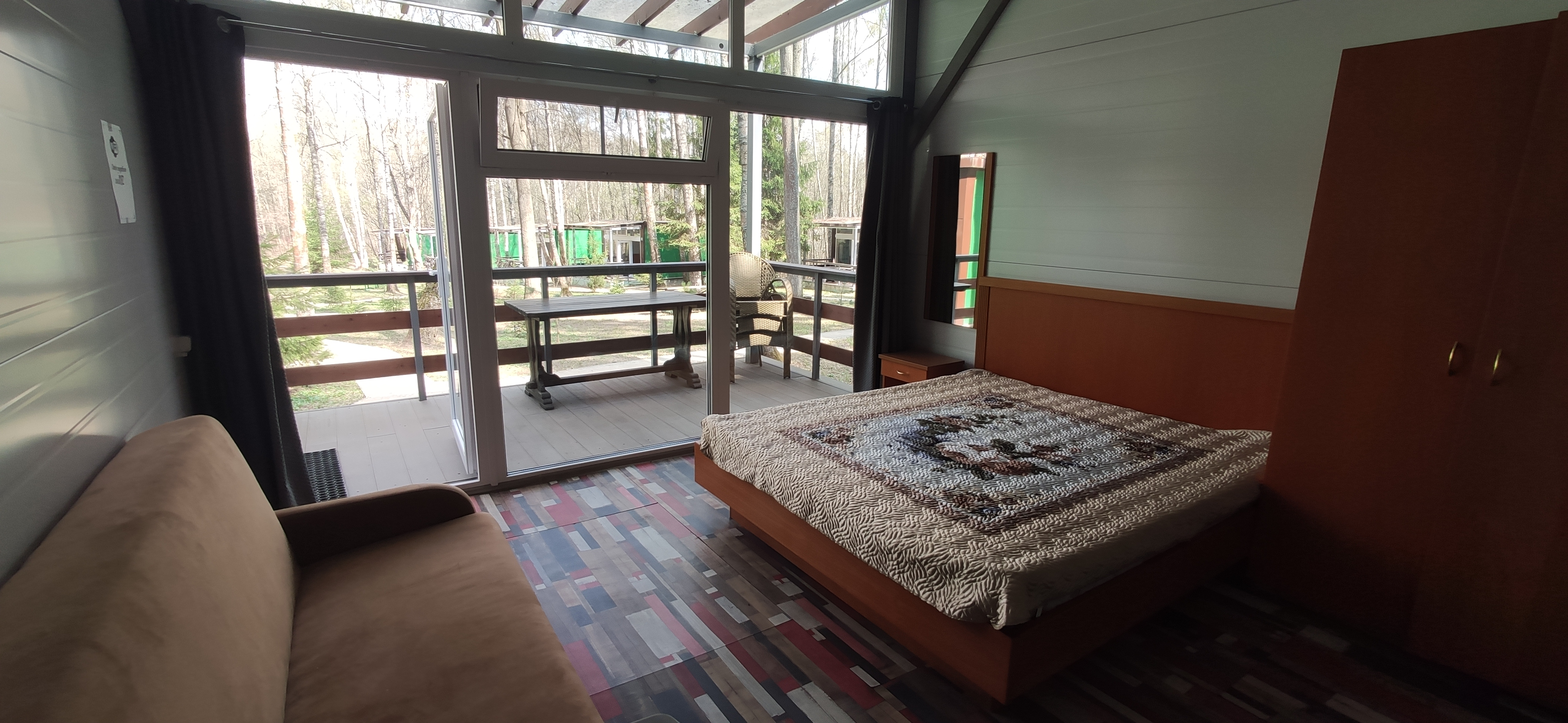
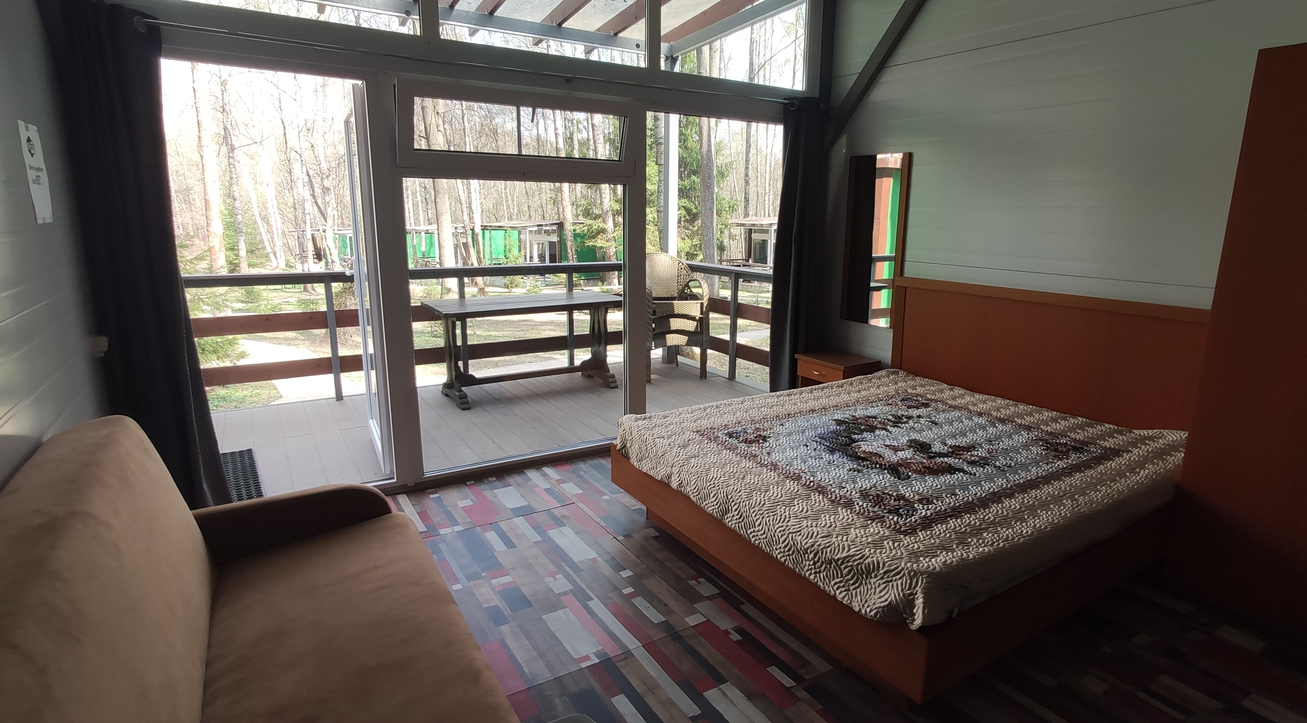
размер картинок

diff --git a/src/app/pages/home/home.component.scss b/src/app/pages/home/home.component.scss
@@ -324,7 +324,7 @@ section {
                 border-radius: 16px;
 
                 &.img-vip {
-                    background-image: url("../../../assets/photo/vip.webp");
+                    background-image: url("../../../assets/photo/vip1_1.jpg");
                 }
 
                 &.img-bed {
